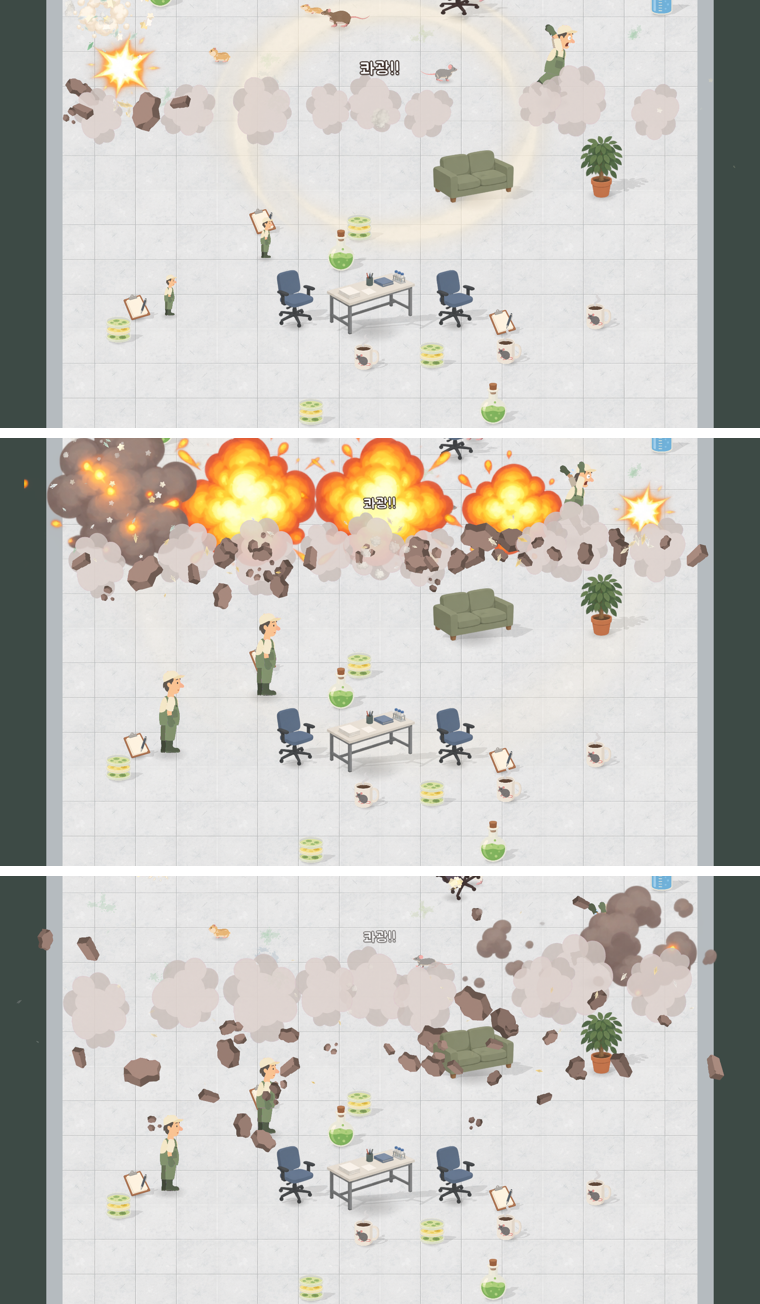
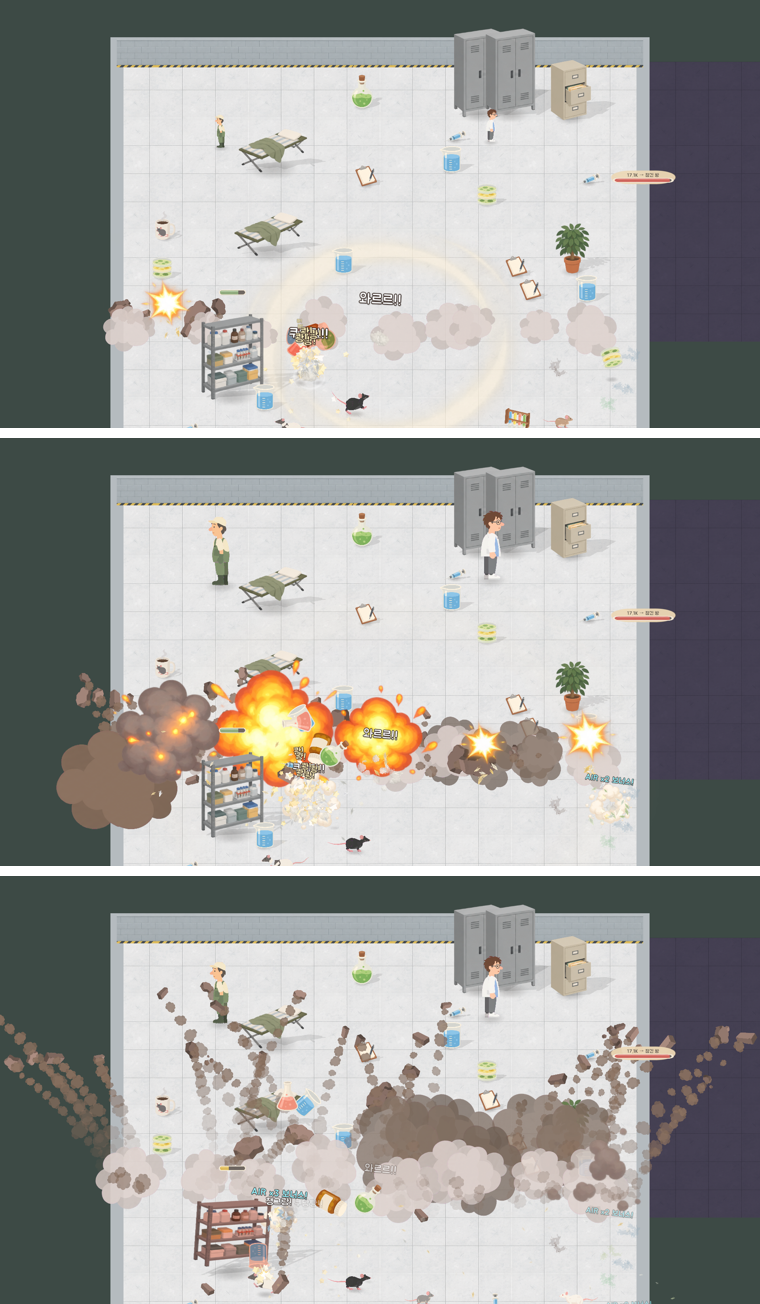
벽 폭파 v2: 연기 기둥이 열리는 방 쪽으로 뿜어짐, 잔해 더 빠르고 멀리 + 흙먼지 꼬리(방사형 줄기)

diff --git a/Unity_Making/NKK_Project/Assets/Scripts/Stage/WallFx.cs b/Unity_Making/NKK_Project/Assets/Scripts/Stage/WallFx.cs
@@ -4,7 +4,8 @@ using UnityEngine;
 namespace NKK.Stage
 {
     // 벽 무너짐 연출 (Game 씬 WallFx): 영화 속 벽 폭파처럼 — 벽 선을 따라 폭발이 연달아 터지며 벽 잔해·벽돌이 새로 열리는 방 쪽으로 부채꼴로 쏟아져 날아감
-    // (큰 콘크리트 덩어리는 굴러감) → 바닥에서 통통 → 사라짐. 먼지구름도 같은 쪽으로 밀려 나감. 충격파·역경직·흔들림.
+    // (큰 콘크리트 덩어리는 굴러감) → 바닥에서 통통 → 사라짐. 빠른 잔해 뒤엔 흙먼지 꼬리(방사형 줄기), 연기 기둥이 열리는 방 쪽으로 뿜어져 부풀어 오름.
+    // 충격파·역경직·흔들림. (참고: 사용자가 준 폭발 사진 — 가운데 불꽃 + 방사형 잔해 줄기 + 바깥으로 뿜는 연기)
     // 파편 = 자식 템플릿(debrisTemplate, 꺼져 있음)을 복제해 씀. 그림 = UnityResources/Rats/FX_Wall (흰색 → 벽 색으로 칠함)
     public class WallFx : MonoBehaviour
     {
@@ -16,22 +17,32 @@ namespace NKK.Stage
         [Tooltip("벽 하나 무너질 때 파편 수 (계단 방 벽은 × stairsMul)")] public int debrisCount = 30;
         public float stairsMul = 1.6f;
         [Tooltip("파편 크기 (게임 단위, 최소·최대)")] public Vector2 debrisSize = new(26, 56);
-        [Tooltip("튀는 속도 (옆 · 위)")] public Vector2 debrisSpeed = new(480, 760);
-        [Tooltip("중력 (게임 단위/초²)")] public float gravity = 1500;
-        [Tooltip("파편 수명 (초)")] public float debrisLife = 1.6f;
+        [Tooltip("발사 속도 (앞 · 위)")] public Vector2 debrisSpeed = new(1300, 420);
+        [Tooltip("중력 (게임 단위/초²)")] public float gravity = 1100;
+        [Tooltip("파편 수명 (초)")] public float debrisLife = 2.2f;
         [Tooltip("먼지구름 수 · 크기")] public int dustCount = 7; public float dustSize = 120;
         [Tooltip("파편 색 = 벽 윗면 색 × 이 값 (어두운 면 섞음)")] public float shadeMin = 0.75f;
         [Tooltip("파편 기본 색 (벽돌) — 벽 윗면 색과 brickMix 만큼 섞음 (밝은 바닥에 묻히지 않게)")] public Color brickColor = new(0.66f, 0.46f, 0.38f); [Range(0, 1)] public float brickMix = 0.65f;
         [Tooltip("무너질 때 화면 흔들림 (계단 방 벽은 × 2)")] public float shake = 0.25f;
-        [Tooltip("날아가는 방향 퍼짐 (0 = 일직선, 1 = 옆으로 같은 만큼)")] public float spread = 0.55f;
+        [Tooltip("날아가는 방향 퍼짐 (0 = 일직선, 1 = 옆으로 같은 만큼)")] public float spread = 0.75f;
         [Tooltip("큰 덩어리 수 · 크기 (게임 단위)")] public int slabCount = 5; public Vector2 slabSize = new(60, 95);
         [Tooltip("먼지구름이 밀려 나가는 속도")] public float dustPush = 260;
+        [Header("연기 기둥 (열리는 방 쪽으로 뿜어짐)")]
+        public int smokeCount = 6;
+        [Tooltip("크기 (처음 → 끝)")] public Vector2 smokeSize = new(150, 320);
+        [Tooltip("뿜는 속도 (최소·최대) — 공기 저항으로 점점 느려짐")] public Vector2 smokePush = new(450, 900);
+        public float smokeLife = 1.8f, smokeDrag = 2.4f;
+        public Color smokeColor = new(0.5f, 0.43f, 0.38f, 0.9f);
+        [Header("잔해 꼬리 (흙먼지 줄기)")]
+        [Tooltip("이 속도보다 빠른 잔해만 꼬리를 남김")] public float trailMinSpeed = 450;
+        [Tooltip("꼬리 간격 (초) · 크기 · 수명")] public float trailGap = 0.03f; public Vector2 trailSize = new(14, 30); public float trailLife = 0.5f;
+        public Color trailColor = new(0.55f, 0.45f, 0.38f, 0.7f);
         [Tooltip("벽 선을 따라 터지는 폭발 수 · 간격(초) · 크기")] public int blastCount = 5; public float blastGap = 0.05f, blastScale = 2.2f;
         [Tooltip("무너질 때 역경직 (초)")] public float hitstop = 0.07f;
         [Tooltip("무너질 때 글자 (비우면 안 띄움)")] public string[] breakWords = { "와르르!!", "콰광!!", "쿠르릉!!" };
 
-        class Piece { public SpriteRenderer r; public float x, y, z, vx, vy, vz, rot, vr, life, max, size, delay; public bool dust; }
-        readonly List<Piece> live = new();
+        class Piece { public SpriteRenderer r; public float x, y, z, vx, vy, vz, rot, vr, life, max, size, size1, delay, trailT, drag; public bool dust; }
+        readonly List<Piece> live = new(), born = new();
         readonly Stack<SpriteRenderer> pool = new();
 
         void Awake() { I = this; if (debrisTemplate) debrisTemplate.gameObject.SetActive(false); }
@@ -79,6 +90,19 @@ namespace NKK.Stage
                     live.Add(new Piece { r = r, x = Mathf.Lerp(x0, x1, t), y = Mathf.Lerp(y0, y1, t), z = Random.Range(10f, h), vx = nx * push + Random.Range(-40f, 40f), vy = ny * push + Random.Range(-30f, 30f), vz = Random.Range(20f, 70f),
                         rot = Random.Range(0, 360f), vr = Random.Range(-40f, 40f), life = 1.1f, max = 1.1f, size = dustSize * Random.Range(0.7f, 1.2f), dust = true });
                 }
+            // 연기 기둥: 벽 가운데쯤에서 열리는 방 쪽 부채꼴로 크게 뿜어져 부풀어 오름
+            if (dustSprite)
+                for (int i = 0; i < smokeCount * (stairs ? 2 : 1); i++)
+                {
+                    float t = Random.Range(0.2f, 0.8f), a = Random.Range(-spread, spread), sp = Random.Range(smokePush.x, smokePush.y), sgn = aimed || Random.value < 0.5f ? 1 : -1;
+                    float dx = sgn * nx + tx * a, dy = sgn * ny + ty * a, dl = Mathf.Max(0.01f, Mathf.Sqrt(dx * dx + dy * dy));
+                    var r = Get(); r.sprite = dustSprite; float k = Random.Range(0.85f, 1.1f);
+                    r.color = new Color(smokeColor.r * k, smokeColor.g * k, smokeColor.b * k, smokeColor.a);
+                    live.Add(new Piece { r = r, x = Mathf.Lerp(x0, x1, t), y = Mathf.Lerp(y0, y1, t), z = h * 0.5f, vx = dx / dl * sp, vy = dy / dl * sp, vz = Random.Range(30f, 120f),
+                        rot = Random.Range(0, 360f), vr = Random.Range(-60f, 60f), life = smokeLife * Random.Range(0.8f, 1.2f), size = smokeSize.x * Random.Range(0.8f, 1.2f), size1 = smokeSize.y * Random.Range(0.8f, 1.2f),
+                        drag = smokeDrag, dust = true, delay = Random.Range(0, blastGap * blastCount) });
+                    live[^1].max = live[^1].life;
+                }
             var fx = FxManager.I;
             if (fx)
             {
@@ -114,11 +138,23 @@ namespace NKK.Stage
                 p.r.enabled = true;
                 p.life -= dt;
                 if (p.life <= 0) { p.r.gameObject.SetActive(false); pool.Push(p.r); live.RemoveAt(i); continue; }
-                if (p.dust) { float d = Mathf.Max(0, 1 - dt * 2.5f); p.vx *= d; p.vy *= d; p.x += p.vx * dt; p.y += p.vy * dt; p.z += p.vz * dt; p.size += dt * 90; }
+                if (p.dust)
+                {
+                    float d = Mathf.Max(0, 1 - dt * (p.drag > 0 ? p.drag : 2.5f)); p.vx *= d; p.vy *= d; p.x += p.vx * dt; p.y += p.vy * dt; p.z += p.vz * dt;
+                    if (p.size1 > 0) p.size += (p.size1 - p.size) * Mathf.Min(1, dt * 2.2f); else p.size += dt * 90;
+                }
                 else
                 {
                     p.vz -= gravity * dt; p.x += p.vx * dt; p.y += p.vy * dt; p.z += p.vz * dt;
                     if (p.z < 0) { p.z = 0; p.vz = -p.vz * 0.35f; p.vx *= 0.6f; p.vy *= 0.6f; p.vr *= 0.5f; }     // 바닥에서 통통
+                    // 빠르게 날아가는 잔해 뒤에 흙먼지 꼬리 (방사형 줄기)
+                    if (dustSprite && p.vx * p.vx + p.vy * p.vy > trailMinSpeed * trailMinSpeed && (p.trailT -= dt) <= 0)
+                    {
+                        p.trailT = trailGap;
+                        var tr = Get(); tr.sprite = dustSprite; tr.color = trailColor;
+                        float ts = Random.Range(trailSize.x, trailSize.y);
+                        born.Add(new Piece { r = tr, x = p.x, y = p.y, z = p.z, rot = Random.Range(0, 360f), life = trailLife, max = trailLife, size = ts, size1 = ts * 2.2f, drag = 6, dust = true });
+                    }
                 }
                 p.rot += p.vr * dt;
                 var r = p.r;
@@ -129,6 +165,7 @@ namespace NKK.Stage
                 r.sortingOrder = World.SortOrder(p.y) + 2;
                 var c = r.color; c.a = Mathf.Clamp01(p.life / Mathf.Min(0.4f, p.max)) * (p.dust ? 0.85f : 1); r.color = c;
             }
+            if (born.Count > 0) { live.AddRange(born); born.Clear(); }
         }
     }
 }

diff --git a/HANDOFF.md b/HANDOFF.md
@@ -393,7 +393,7 @@ NKK.BalanceProbe.RunQueue();   // 끝나면 NKK.BalanceProbe.RowsCsv() / Report(
 - **로켓 배송**: 상자가 막힌 벽 두께 안에 떨어지면 물건이 벽에 가려짐 → 착지 위치를 방 바닥 안쪽으로.
 - **총공격 범위** 공용 효과 `Rush_Range` (1·3·5·7훈장 S3, +15/15/20/20%): 화면 밖으로 화면 크기 × 합 만큼 쥐도 모임 (`RatManager.StartRush`). 자리를 내준 스테이지 스킵은 같은 트리 S1 에 더해 합 유지.
 - **쥐 벽 넘어감** (사용자: 벽 통과하는 스킬들): 측정 중 감지(`Rat.WallEscapeCheck`, 에디터 전용 · BalanceProbe 결과에 `[벽 밖]`) 56건 → 거의 전부 총공격 등으로 몰려 쥐끼리 미는 힘이 Confine 뒤에 적용돼 벽 안으로 밀린 것 (+ 벽 틈 질주·윈드밀 각 1). **`Rat.KeepInside`** = LateUpdate 에서 한 번 더 Confine, 닫힌 방이면 마지막 안전 위치로.
-- **벽 파괴 연출**: 금 자국 3단계 (`Room.crackTemplate/crackSprites/crackAt`) + **`Stage/WallFx.cs`** (Game 씬 `WallFx`): 벽 선 따라 연쇄 폭발(explosion 애니) → 벽돌·콘크리트가 새로 열리는 방 쪽으로 부채꼴로 쏟아짐(큰 덩어리 slabCount) · 먼지 밀려 나감 · 충격파 · 역경직 · 흔들림 · "콰광!!". `StageManager.BreakFx`. 그림 `UnityResources/Rats/FX_Wall/`.
+- **벽 파괴 연출**: 금 자국 3단계 (`Room.crackTemplate/crackSprites/crackAt`) + **`Stage/WallFx.cs`** (Game 씬 `WallFx`): 벽 선 따라 연쇄 폭발(explosion 애니) → 벽돌·콘크리트가 새로 열리는 방 쪽으로 부채꼴로 쏟아짐(큰 덩어리 slabCount) · 먼지 밀려 나감 · 충격파 · 역경직 · 흔들림 · "콰광!!". v2 (사용자 참고 사진: 폭발 + 방사형 잔해 줄기 + 바깥으로 뿜는 연기): 잔해 발사 속도 1300·낮게·부채꼴 0.75, 빠른 잔해 뒤 흙먼지 꼬리(trail*), 연기 기둥 smokeCount 6 이 열리는 방 쪽으로 뿜어져 부풀어 오름(smoke*). `StageManager.BreakFx`. 그림 `UnityResources/Rats/FX_Wall/`.
 - **경제 개편** (사용자: 치즈가 남아돎 → 연구자료 부족 즈음 치즈도 바닥, 훈장마다 1훈장 약 2판 → 8훈장 약 6판, 성장 곡선은 나중에 다시): 측정 `Tools/probe_results/round8_econ.csv`(층별 치즈·연구자료, BalanceProbe Rows 에 cheese·research 칸 추가). 연구자료 = `Heist` 8 × 1.25^(층-1) (예전 6 × 1.45, 보스 ×3). 노드 연구자료 `gen_skill_tree.py RESEARCH`, 승급 티어 테이블 research_cost 36·40·140·460·940·2460·8650, 노드 치즈 = 노드 연구자료 × `CHEESE_PER_RES`(층대 치즈÷연구자료 수입 × (트리+승급)÷트리), 1훈장 트리 치즈 합 21,300. 예전: 7·8훈장은 한 판도 안 돌고 넘어감(0.24·0.03판).
 
 **남은 일 (순서 제안)**
